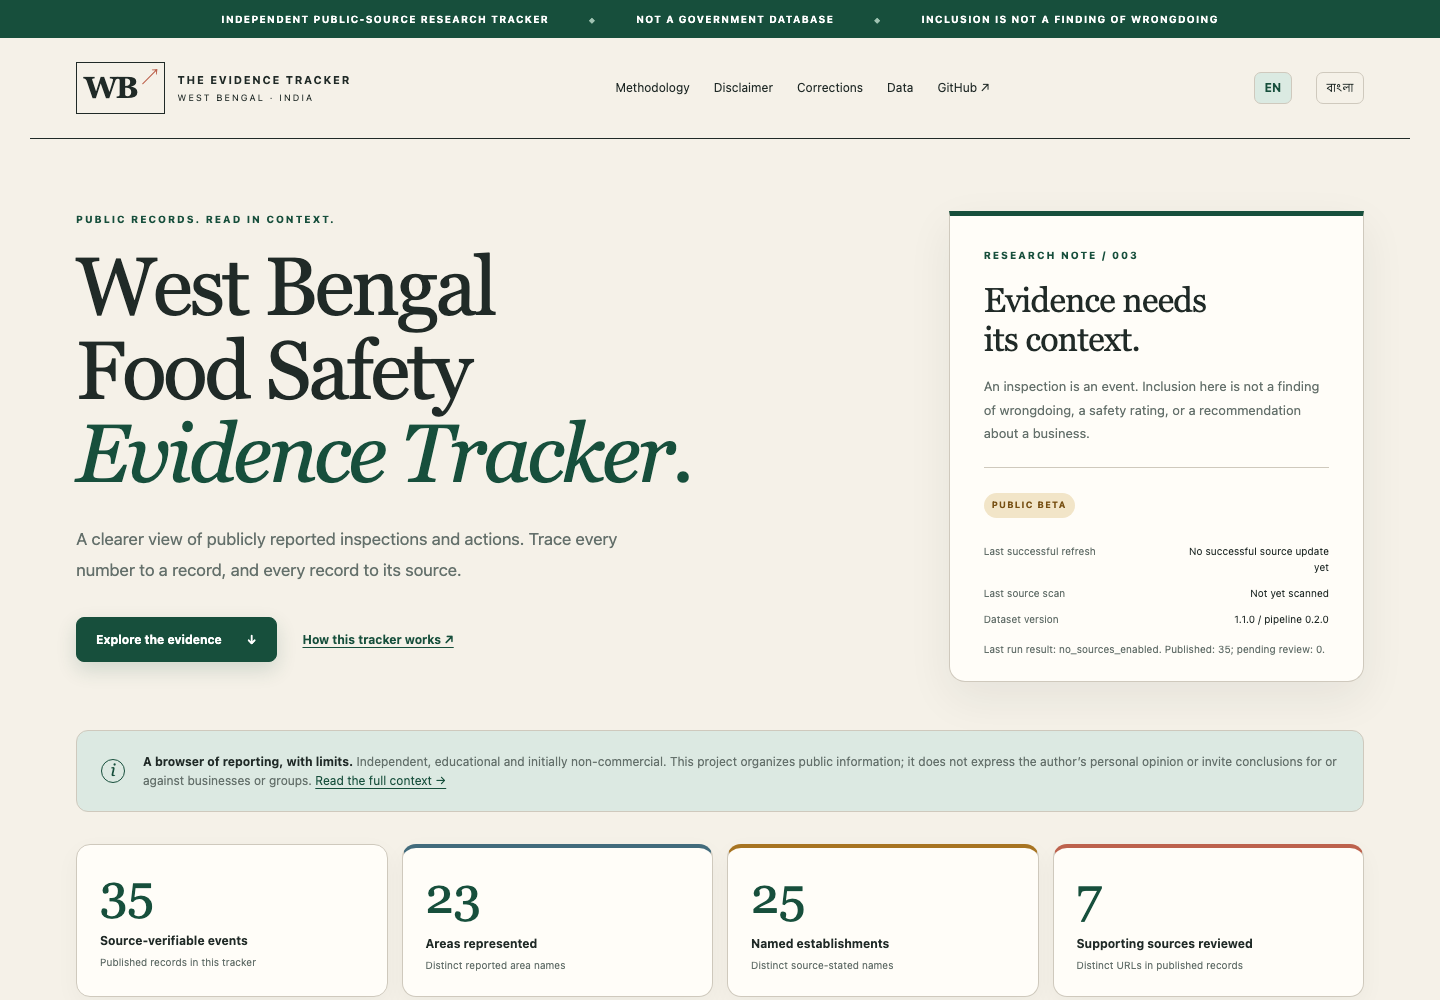
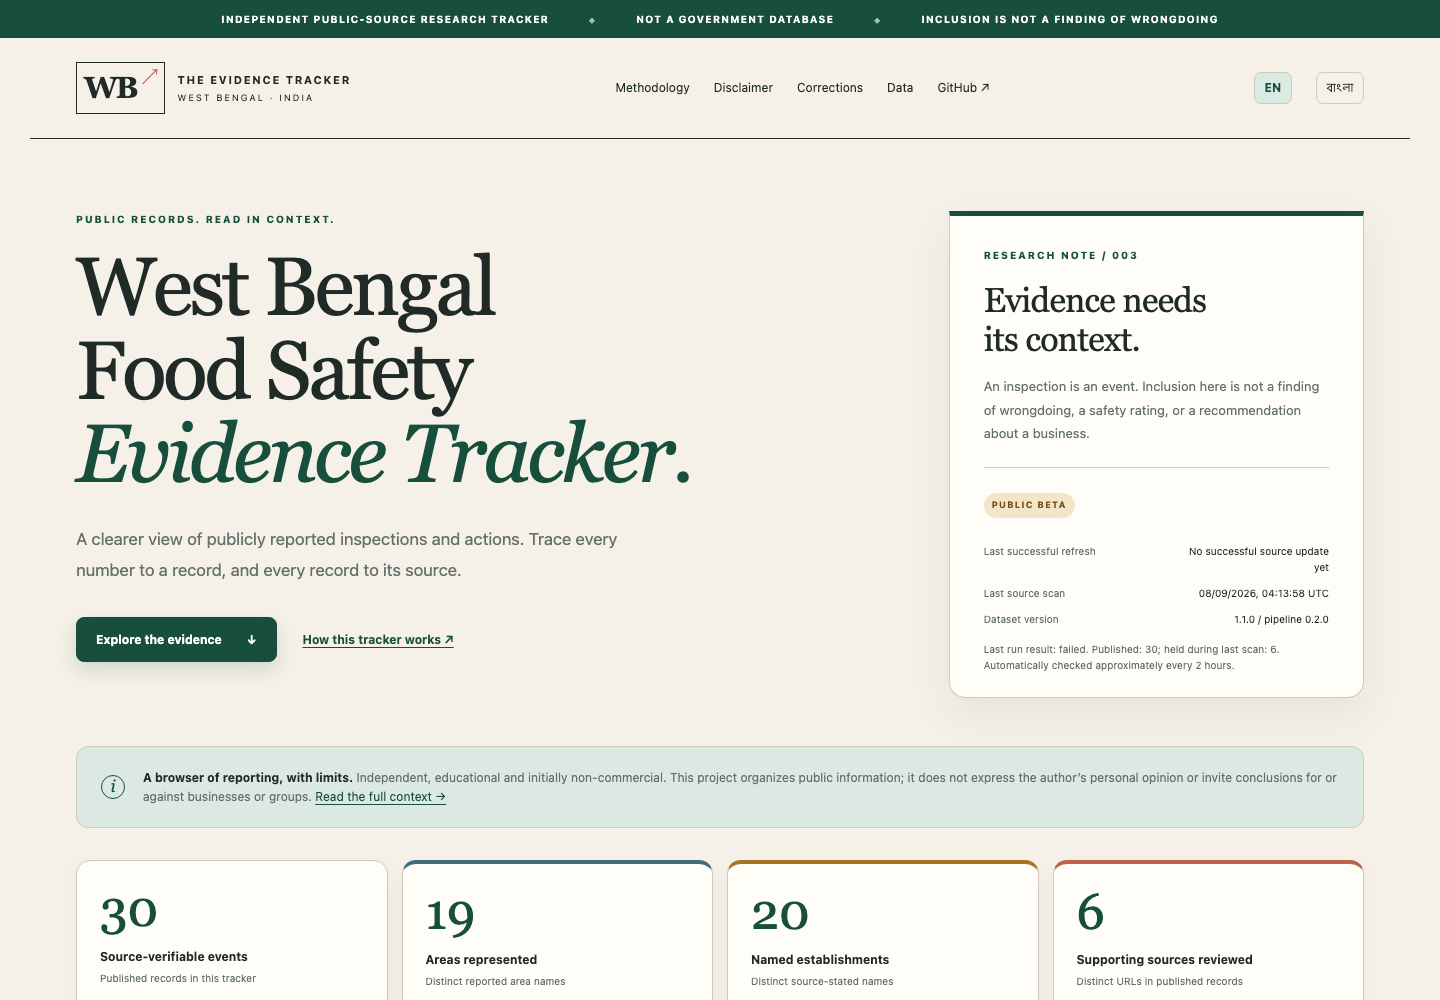
fix: keep public refresh status independent of private queues

Changed region(s): [[0.0312, 0.713, 0.9688, 1.0], [0.6562, 0.589, 0.9375, 0.713]]

diff --git a/site/app.js b/site/app.js
@@ -312,7 +312,7 @@ try {
   const menus = new Set(state.rows.filter(r => r.derived_context.menu_context !== 'unknown').map(r => r.reported_fact.establishment_name).filter(Boolean));
   $('menu-availability').textContent = language === 'bn' ? `নাম উল্লেখিত ${named.size}টি প্রতিষ্ঠানের মধ্যে ${menus.size}টির তথ্য রয়েছে` : `Available for ${menus.size} of ${named.size} named establishments`;
   $('last-update').textContent = status.last_successful_update ? dateText(status.last_successful_update, true) : t.notUpdated; $('last-scan').textContent = status.last_source_scan ? dateText(status.last_source_scan, true) : t.notScanned;
-  $('dataset-version').textContent = `${data.schema_version} / pipeline ${data.pipeline_version}`; $('run-status').textContent = `Last run result: ${status.last_run_result || 'not reported'}. Published: ${data.record_count}; held from publication: ${status.pending_count ?? 'not reported'}.`;
+  $('dataset-version').textContent = `${data.schema_version} / pipeline ${data.pipeline_version}`; $('run-status').textContent = `Last run result: ${status.last_run_result || 'not reported'}. Published: ${data.record_count}; held during last scan: ${status.pending_count ?? 'not reported'}.`;
   $('dataset-message').textContent = data.record_count ? (language === 'bn' ? `${data.record_count}টি উৎসসমর্থিত নথি। চিত্রে নির্বাচন করে সংশ্লিষ্ট মূল নথি দেখুন।` : `${data.record_count} source-supported records. Every chart selection reveals its contributing evidence.`) : t.noRecords;
   if (language === 'bn') $('run-status').textContent = `শেষ পরীক্ষার ফল: ${status.last_run_result || 'উল্লেখ নেই'}। প্রকাশিত: ${data.record_count}; পর্যালোচনার অপেক্ষায়: ${status.pending_count ?? 'উল্লেখ নেই'}।`;
   if (status.scheduled_refresh_hours === 2) $('run-status').append(document.createTextNode(language === 'bn' ? ' প্রায় প্রতি ২ ঘণ্টায় স্বয়ংক্রিয়ভাবে পরীক্ষা করা হয়।' : ' Automatically checked approximately every 2 hours.'));

diff --git a/src/food_safety/pipeline.py b/src/food_safety/pipeline.py
@@ -107,6 +107,7 @@ def update(root, max_articles=None, use_llm=False, max_llm_calls=None, fetcher=N
     )
     fetcher = fetcher or Fetcher(policies, cfg)
     events, pending = read_events(root, "events"), read_events(root, "pending")
+    initial_published_ids = {event.event_id for event in events}
     rejected = read_rejected(root)["records"]
     at = now()
     run = {
@@ -239,13 +240,14 @@ def update(root, max_articles=None, use_llm=False, max_llm_calls=None, fetcher=N
                 run["records_published"] += 1
             else:
                 if event.automatic_validation:
-                    event = transition(
-                        root,
-                        event,
-                        "PENDING REVIEW",
-                        "Automatic publication checks did not pass.",
-                        at,
+                    # This candidate was never published: do not create a public
+                    # retirement notice or a fictitious prior publication revision.
+                    draft = event.model_dump(mode="json")
+                    draft.update(verification_status="PENDING REVIEW", automatic_validation=None)
+                    draft["history"][-1].update(
+                        status="PENDING REVIEW", note="Automatic publication checks did not pass."
                     )
+                    event = Event.model_validate(draft)
                 pending.append(event)
                 run["records_pending"] += 1
                 reasons["human_review_required"] += 1
@@ -287,6 +289,9 @@ def update(root, max_articles=None, use_llm=False, max_llm_calls=None, fetcher=N
     )
     transaction(root, events, pending, rejected, at)
     status = dict(prior_status)
+    status["held_from_last_scan"] = run["records_pending"] + len(
+        initial_published_ids - {event.event_id for event in events}
+    )
     if os.getenv("GITHUB_ACTIONS") == "true":
         status["scheduled_refresh_hours"] = 2
     status.update(

diff --git a/tests/test_automatic.py b/tests/test_automatic.py
@@ -120,3 +120,24 @@ def test_discovery_size_cap_does_not_raise_article_cap():
     assert cfg.max_response_bytes == 524288
     with pytest.raises(ValueError):
         Settings(max_discovery_response_bytes=1048577)
+
+
+def test_overlapping_candidate_is_not_published_or_given_a_public_tombstone(
+    project, policy, monkeypatch
+):
+    policy.urls = []
+    policy.discovery_pages = ["https://example.org/index"]
+    enable_policy(project, policy)
+    monkeypatch.setenv("AUTO_PUBLISH", "true")
+    update(project, fetcher=DiscoveryFixture())
+
+    class OtherArticle(DiscoveryFixture):
+        def article(self, url):
+            if url.endswith("/index"):
+                return url, '<a href="/other">Kolkata food safety inspection</a>'
+            return super().article(url)
+
+    update(project, fetcher=OtherArticle())
+    build(project)
+    assert json.loads((project / "site/data/events.json").read_text())["record_count"] == 1
+    assert json.loads((project / "site/data/retired.json").read_text())["record_count"] == 0

diff --git a/tests/test_public_workflow.py b/tests/test_public_workflow.py
@@ -41,3 +41,16 @@ def test_private_local_artifacts_are_ignored():
     text = (ROOT / ".gitignore").read_text()
     for path in ["data/history/", "data/pending.json", "data/rejected.json", ".cache/", ".env"]:
         assert path in text
+
+
+def test_public_status_does_not_depend_on_private_queue_contents(project):
+    import json
+
+    from food_safety.build import build
+
+    path = project / "data/status.json"
+    status = json.loads(path.read_text())
+    status["held_from_last_scan"] = 6
+    path.write_text(json.dumps(status))
+    build(project)
+    assert json.loads((project / "site/status.json").read_text())["pending_count"] == 6

diff --git a/src/food_safety/build.py b/src/food_safety/build.py
@@ -260,7 +260,11 @@ def build(root):
     status = json.loads((root / "data/status.json").read_text())
     dump(
         site / "status.json",
-        {**status, "published_count": counts["published"], "pending_count": counts["pending"]},
+        {
+            **status,
+            "published_count": counts["published"],
+            "pending_count": status.get("held_from_last_scan", 0),
+        },
     )
     dump(
         site / "repository.json",
